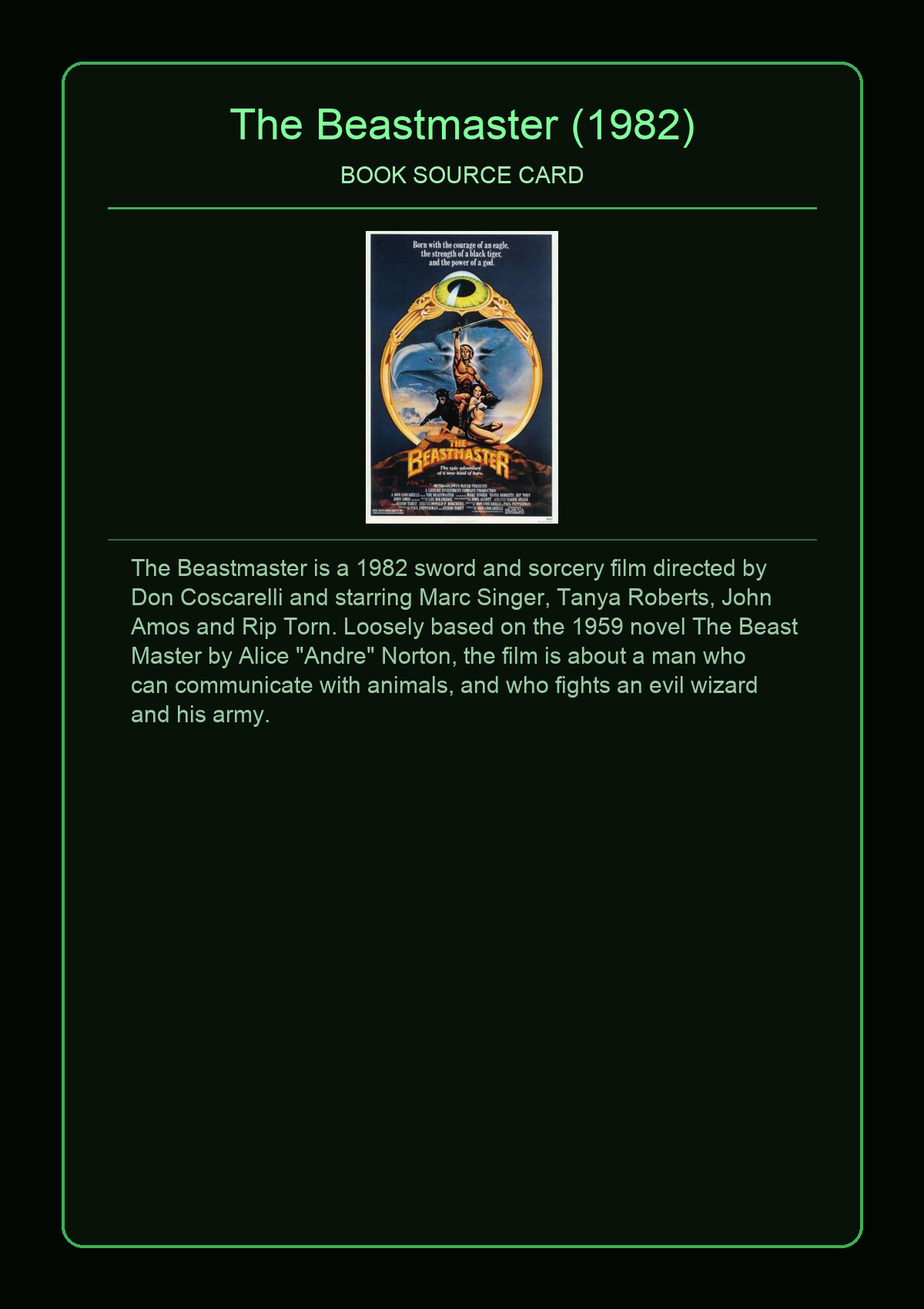
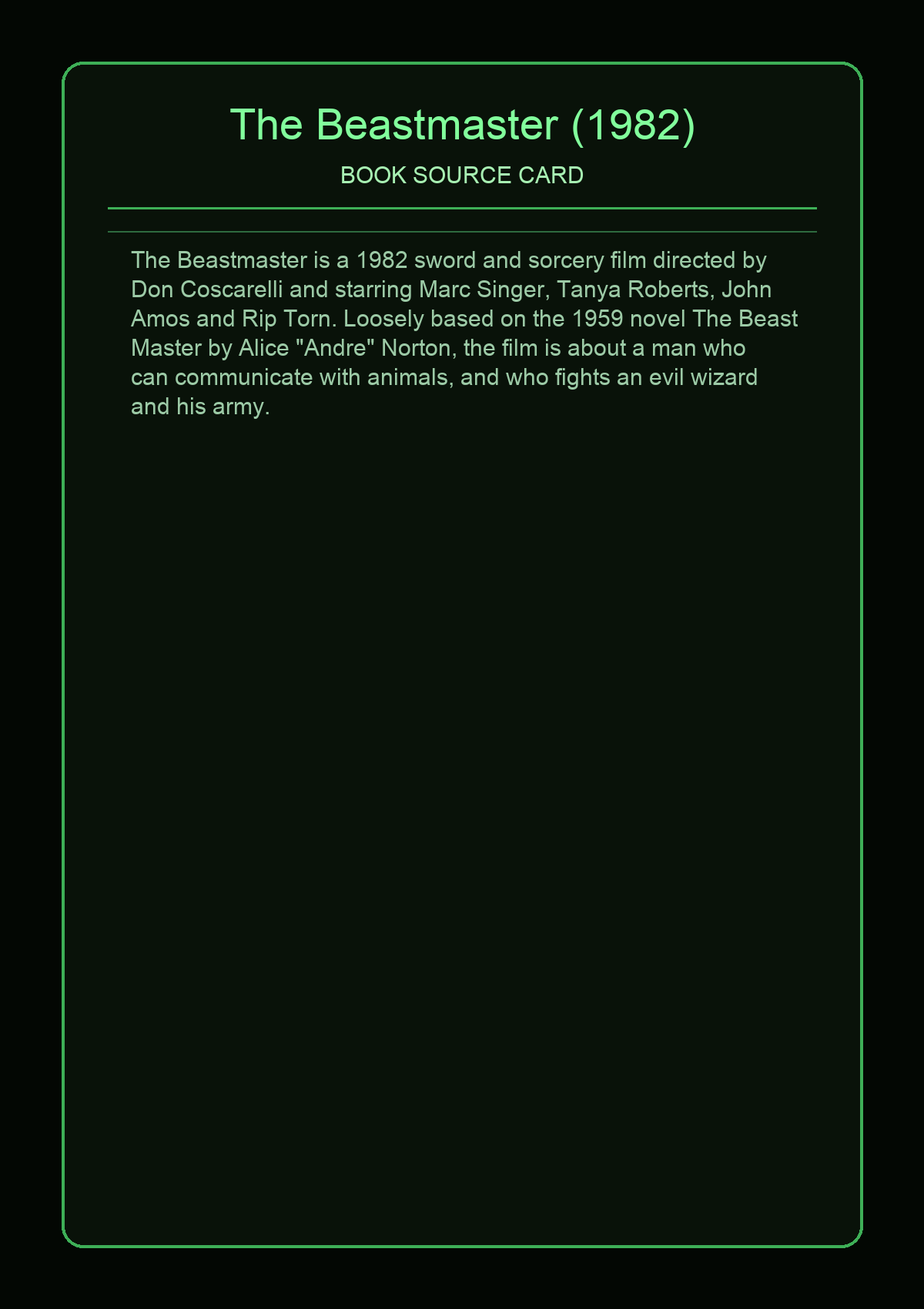
Regenerate DnDex cards with updated entity pages

Changed region(s): [[0.1233, 0.1559, 0.8633, 0.5612]]

diff --git a/ios_card_images/card-dex/entities/wacky-races-1968.html b/ios_card_images/card-dex/entities/wacky-races-1968.html
@@ -20,7 +20,7 @@
       </section>
       <section class="panel">
         <h2>Photo</h2>
-        <img class="wiki-img" src="../../entities/photos/wacky-races-1968.jpg" alt="Wacky Races (1968) image" />
+        <p class="small">No local photo available for this source yet.</p>
         <p class="summary">Wacky Races is an American animated comedy television series produced by Hanna-Barbera Productions in association with Heatter-Quigley Productions. It aired on CBS as part of its Saturday-morning schedule from September 14, 1968, to January 4, 1969, and then reruns the next season. The series features 11 different cars racing against each other in various road rallies throughout North America, with all of the drivers hoping to win the title of the "World's Wackiest Racer". The show was inspired by the 1965 comedy film The Great Race. This was the only non-game show produced by Heatter-Quigley; the show was intended as a game show in which children would guess the winner of each race, and those who answered correctly would win prizes, but CBS dropped these elements during development.</p>
       </section>
     </div>

diff --git a/ios_card_images/card-dex/entities/thundercats-1985.html b/ios_card_images/card-dex/entities/thundercats-1985.html
@@ -20,7 +20,7 @@
       </section>
       <section class="panel">
         <h2>Photo</h2>
-        <img class="wiki-img" src="../../entities/photos/thundercats-1985.png" alt="ThunderCats (1985) image" />
+        <p class="small">No local photo available for this source yet.</p>
         <p class="summary">ThunderCats is an American animated science fantasy television series produced by Rankin/Bass Animated Entertainment and Leisure Concepts. It debuted in 1985, based on the characters created by Tobin Wolf. The series, for which Leonard Starr was the head writer, follows the adventures of a group of catlike humanoid aliens. The animation for the episodes was provided by the Japanese studio Pacific Animation Corporation, with Masaki Iizuka as production manager. The studio was acquired in 1989 to form Walt Disney Animation Japan. Season 1 of the show aired in 1985, consisting of 65 episodes. Seasons 2, 3, and 4 each contained twenty episodes, starting with a five-part story.</p>
       </section>
     </div>

diff --git a/ios_card_images/card-dex/entities/ursula-k-le-guin.html b/ios_card_images/card-dex/entities/ursula-k-le-guin.html
@@ -20,7 +20,7 @@
       </section>
       <section class="panel">
         <h2>Photo</h2>
-        <img class="wiki-img" src="../../entities/photos/ursula-k-le-guin.jpg" alt="Ursula K. Le Guin image" />
+        <p class="small">No local photo available for this source yet.</p>
         <p class="summary">Ursula Kroeber Le Guin was an American author. She is best known for her works of speculative fiction, including science fiction works set in her Hainish universe, and the Earthsea fantasy series. Her work was first published in 1959, and her literary career spanned nearly sixty years, producing more than twenty novels and more than a hundred short stories, in addition to poetry, literary criticism, translations, and children's books. Frequently described as an author of science fiction, Le Guin has also been called a "major voice in American Letters". Le Guin said that she would prefer to be known as an "American novelist".</p>
       </section>
     </div>

diff --git a/ios_card_images/card-dex/entities/willow-1988.html b/ios_card_images/card-dex/entities/willow-1988.html
@@ -20,7 +20,7 @@
       </section>
       <section class="panel">
         <h2>Photo</h2>
-        <img class="wiki-img" src="../../entities/photos/willow-1988.jpg" alt="Willow (1988) image" />
+        <p class="small">No local photo available for this source yet.</p>
         <p class="summary">Willow is a 1988 American high fantasy adventure film directed by Ron Howard and produced by Nigel Wooll. The film was executive produced by George Lucas and written by Bob Dolman from a story by Lucas. The film stars Warwick Davis as the title character, Val Kilmer, Joanne Whalley, Billy Barty and Jean Marsh. Davis portrays aspiring magician Willow Ufgood who teams up with disaffected warrior Madmartigan (Kilmer) to protect young baby princess Elora Danan from evil queen Bavmorda (Marsh).</p>
       </section>
     </div>

diff --git a/ios_card_images/card-dex/entities/the-phantom-1936.html b/ios_card_images/card-dex/entities/the-phantom-1936.html
@@ -20,7 +20,7 @@
       </section>
       <section class="panel">
         <h2>Photo</h2>
-        <img class="wiki-img" src="../../entities/photos/the-phantom-1936.jpg" alt="The Phantom (1936) image" />
+        <p class="small">No local photo available for this source yet.</p>
         <p class="summary">The Phantom is a 1996 superhero film directed by Simon Wincer. Based on Lee Falk's comic strip The Phantom by King Features, the film stars Billy Zane as a seemingly immortal crimefighter and his battle against all forms of evil. The Phantom also stars Treat Williams, Kristy Swanson, Catherine Zeta-Jones, James Remar and Patrick McGoohan.</p>
       </section>
     </div>

diff --git a/ios_card_images/card-dex/entities/the-beastmaster-1982.html b/ios_card_images/card-dex/entities/the-beastmaster-1982.html
@@ -20,7 +20,7 @@
       </section>
       <section class="panel">
         <h2>Photo</h2>
-        <img class="wiki-img" src="../../entities/photos/the-beastmaster-1982.jpg" alt="The Beastmaster (1982) image" />
+        <p class="small">No local photo available for this source yet.</p>
         <p class="summary">The Beastmaster is a 1982 sword and sorcery film directed by Don Coscarelli and starring Marc Singer, Tanya Roberts, John Amos and Rip Torn. Loosely based on the 1959 novel The Beast Master by Alice "Andre" Norton, the film is about a man who can communicate with animals, and who fights an evil wizard and his army.</p>
       </section>
     </div>

diff --git a/ios_card_images/card-dex/entities/ulysses-31-1981.html b/ios_card_images/card-dex/entities/ulysses-31-1981.html
@@ -20,7 +20,7 @@
       </section>
       <section class="panel">
         <h2>Photo</h2>
-        <img class="wiki-img" src="../../entities/photos/ulysses-31-1981.jpg" alt="Ulysses 31 (1981) image" />
+        <p class="small">No local photo available for this source yet.</p>
         <p class="summary">Ulysses 31  is a French–Japanese–Luxembourgian anime series based on the Greek mythology of Odysseus, set in the 31st century. It was produced by DIC Audiovisuel and Tokyo Movie Shinsha, in co-production with France 3 and RTL. The series comprises 26 half-hour episodes.</p>
       </section>
     </div>

diff --git a/ios_card_images/card-dex/entities/terry-pratchett.html b/ios_card_images/card-dex/entities/terry-pratchett.html
@@ -20,7 +20,7 @@
       </section>
       <section class="panel">
         <h2>Photo</h2>
-        <img class="wiki-img" src="../../entities/photos/terry-pratchett.jpg" alt="Terry Pratchett image" />
+        <p class="small">No local photo available for this source yet.</p>
         <p class="summary">Sir Terence David John Pratchett was an English author, humorist, and satirist, best known for the Discworld series of 41 comic fantasy novels published between 1983 and 2015, and for the apocalyptic comedy novel Good Omens (1990), which he co-wrote with Neil Gaiman.</p>
       </section>
     </div>

diff --git a/ios_card_images/card-dex/entities/the-neverending-story-1984.html b/ios_card_images/card-dex/entities/the-neverending-story-1984.html
@@ -20,7 +20,7 @@
       </section>
       <section class="panel">
         <h2>Photo</h2>
-        <img class="wiki-img" src="../../entities/photos/the-neverending-story-1984.jpg" alt="The NeverEnding Story (1984) image" />
+        <p class="small">No local photo available for this source yet.</p>
         <p class="summary">The Neverending Story is a fantasy novel by German writer Michael Ende, published in 1979. The first English translation, by Ralph Manheim, was published in 1983. It was later adapted into a film series and a television series.</p>
       </section>
     </div>

diff --git a/ios_card_images/card-dex/entities/tolkien.html b/ios_card_images/card-dex/entities/tolkien.html
@@ -20,7 +20,7 @@
       </section>
       <section class="panel">
         <h2>Photo</h2>
-        <img class="wiki-img" src="../../entities/photos/tolkien.jpg" alt="Tolkien image" />
+        <p class="small">No local photo available for this source yet.</p>
         <p class="summary">John Ronald Reuel Tolkien was an English writer and philologist. He was the author of the high fantasy works The Hobbit (1937) and The Lord of the Rings (1954–55).</p>
       </section>
     </div>

diff --git a/ios_card_images/PHOTO_SOURCES.md b/ios_card_images/PHOTO_SOURCES.md
@@ -4,51 +4,41 @@ Local copies of reference photos used in source/entity pages.
 
 | Source | Local File | Wiki Page | Remote Image URL | Retrieved (UTC) |
 |---|---|---|---|---|
-| Alien (1979) | `entities/photos/alien-1979.jpg` | https://en.wikipedia.org/wiki/Alien_(film) | https://upload.wikimedia.org/wikipedia/en/c/c3/Alien_movie_poster.jpg | 2026-03-13T22:28:56+00:00 |
-| Blake's 7 (1978) | `entities/photos/blake-s-7-1978.jpg` | https://en.wikipedia.org/wiki/Blake's_7 | https://upload.wikimedia.org/wikipedia/en/thumb/1/1e/Blake%27s_7_%28title_card%29.jpg/330px-Blake%27s_7_%28title_card%29.jpg | 2026-03-13T22:28:56+00:00 |
-| Buck Rogers (1929) | `entities/photos/buck-rogers-1929.jpg` | https://en.wikipedia.org/wiki/Buck_Rogers | https://upload.wikimedia.org/wikipedia/commons/thumb/7/77/FamousFunniesNo211.jpg/330px-FamousFunniesNo211.jpg | 2026-03-13T22:28:57+00:00 |
-| Classic Sci-Fi | `entities/photos/classic-sci-fi.jpg` | https://en.wikipedia.org/wiki/FIFA_06 | https://upload.wikimedia.org/wikipedia/en/thumb/e/e9/FIFA_06_UK_cover.jpg/250px-FIFA_06_UK_cover.jpg | 2026-03-13T22:28:57+00:00 |
-| Community | `entities/photos/community.jpg` | https://en.wikipedia.org/wiki/Community | https://upload.wikimedia.org/wikipedia/commons/thumb/3/39/A_community_townhall_at_Makoko_community.jpg/330px-A_community_townhall_at_Makoko_community.jpg | 2026-03-13T22:28:57+00:00 |
-| Conan the Barbarian (1982) | `entities/photos/conan-the-barbarian-1982.jpg` | https://en.wikipedia.org/wiki/Conan_the_Barbarian_(1982_novel) | https://upload.wikimedia.org/wikipedia/en/thumb/1/1f/Conan_the_Barbarian_novel.jpg/120px-Conan_the_Barbarian_novel.jpg | 2026-03-13T22:28:58+00:00 |
-| Cosgrove Hall (1981) | `entities/photos/cosgrove-hall-1981.png` | https://en.wikipedia.org/wiki/Cosgrove_Hall_Films | https://upload.wikimedia.org/wikipedia/en/7/7b/CosgroveHallLogo.png | 2026-03-13T22:28:58+00:00 |
-| Dan Dare (1950) | `entities/photos/dan-dare-1950.jpg` | https://en.wikipedia.org/wiki/Dan_Dare | https://upload.wikimedia.org/wikipedia/en/thumb/c/ce/Eagle_cover_1989.jpg/250px-Eagle_cover_1989.jpg | 2026-03-13T22:28:59+00:00 |
-| David Eddings | `entities/photos/david-eddings.jpg` | https://en.wikipedia.org/wiki/David_Eddings | https://upload.wikimedia.org/wikipedia/en/thumb/e/ee/David_Eddings_portrait.jpg/120px-David_Eddings_portrait.jpg | 2026-03-13T22:29:00+00:00 |
-| Doctor Who (1963) | `entities/photos/doctor-who-1963.jpg` | https://en.wikipedia.org/wiki/Doctor_Who_(film) | https://upload.wikimedia.org/wikipedia/en/thumb/6/60/Doctor_Who_1996_poster.jpg/120px-Doctor_Who_1996_poster.jpg | 2026-03-13T22:29:00+00:00 |
-| Dogtanian (1981) | `entities/photos/dogtanian-1981.jpg` | https://en.wikipedia.org/wiki/Dogtanian_and_the_Three_Muskehounds | https://upload.wikimedia.org/wikipedia/en/thumb/5/59/DogtanianLogo.JPG/330px-DogtanianLogo.JPG | 2026-03-13T22:29:00+00:00 |
-| Dragonslayer (1981) | `entities/photos/dragonslayer-1981.jpg` | https://en.wikipedia.org/wiki/Dragonslayer_(1981_film) | https://upload.wikimedia.org/wikipedia/en/4/41/DragonslayerPoster.jpg | 2026-03-13T22:29:01+00:00 |
-| Edgar Rice Burroughs | `entities/photos/edgar-rice-burroughs.jpg` | https://en.wikipedia.org/wiki/Edgar_Rice_Burroughs | https://upload.wikimedia.org/wikipedia/commons/thumb/f/ff/BurroughsEdgarRice.jpg/330px-BurroughsEdgarRice.jpg | 2026-03-13T22:29:01+00:00 |
-| Flash Gordon (1934) | `entities/photos/flash-gordon-1934.jpg` | https://en.wikipedia.org/wiki/Flash_Gordon_(1954_TV_series) | https://upload.wikimedia.org/wikipedia/commons/thumb/4/43/Fg1954tc.jpg/330px-Fg1954tc.jpg | 2026-03-13T22:29:01+00:00 |
-| Forbidden Planet (1956) | `entities/photos/forbidden-planet-1956.jpg` | https://en.wikipedia.org/wiki/Forbidden_Planet | https://upload.wikimedia.org/wikipedia/commons/thumb/5/50/Forbiddenplanetposter.jpg/330px-Forbiddenplanetposter.jpg | 2026-03-13T22:29:02+00:00 |
-| Fritz Leiber | `entities/photos/fritz-leiber.jpg` | https://en.wikipedia.org/wiki/Fritz_Leiber | https://upload.wikimedia.org/wikipedia/commons/thumb/5/57/Fritz_Leiber_at_A_Change_of_Hobbit%2C_26_February_1977_%28cropped%29.jpg/330px-Fritz_Leiber_at_A_Change_of_Hobbit%2C_26_February_1977_%28cropped%29.jpg | 2026-03-13T22:29:02+00:00 |
-| Futurama | `entities/photos/futurama.png` | https://en.wikipedia.org/wiki/Futurama | https://upload.wikimedia.org/wikipedia/commons/thumb/8/84/Futurama_1999_logo.svg/330px-Futurama_1999_logo.svg.png | 2026-03-13T22:29:02+00:00 |
-| Hanna-Barbera (1961) | `entities/photos/hanna-barbera-1961.jpg` | https://en.wikipedia.org/wiki/Hanna-Barbera | https://upload.wikimedia.org/wikipedia/en/thumb/4/49/Hbstudio1990s.jpg/330px-Hbstudio1990s.jpg | 2026-03-13T22:29:02+00:00 |
-| He-Man (1983) | `entities/photos/he-man-1983.jpg` | https://en.wikipedia.org/wiki/He-Man_and_the_Masters_of_the_Universe | https://upload.wikimedia.org/wikipedia/en/thumb/a/a2/He-Man_and_the_Masters_of_the_Universe_%28logo%29.jpg/330px-He-Man_and_the_Masters_of_the_Universe_%28logo%29.jpg | 2026-03-13T22:29:03+00:00 |
-| Isaac Asimov | `entities/photos/isaac-asimov.jpg` | https://en.wikipedia.org/wiki/Isaac_Asimov | https://upload.wikimedia.org/wikipedia/commons/thumb/3/34/Isaac.Asimov01.jpg/330px-Isaac.Asimov01.jpg | 2026-03-13T22:29:04+00:00 |
-| J.R.R. Tolkien | `entities/photos/j-r-r-tolkien.jpg` | https://en.wikipedia.org/wiki/J._R._R._Tolkien | https://upload.wikimedia.org/wikipedia/commons/thumb/d/d4/J._R._R._Tolkien%2C_ca._1925.jpg/330px-J._R._R._Tolkien%2C_ca._1925.jpg | 2026-03-13T22:29:04+00:00 |
-| Judge Dredd (1977) | `entities/photos/judge-dredd-1977.jpg` | https://en.wikipedia.org/wiki/Judge_Dredd_(1997_video_game) | https://upload.wikimedia.org/wikipedia/en/thumb/3/36/Judge_Dredd_%281997_VG%29_cover.jpg/250px-Judge_Dredd_%281997_VG%29_cover.jpg | 2026-03-13T22:29:04+00:00 |
-| King Kong (1933) | `entities/photos/king-kong-1933.jpg` | https://en.wikipedia.org/wiki/King_Kong_(1933_film) | https://upload.wikimedia.org/wikipedia/commons/thumb/f/f3/Kingkongposter.jpg/330px-Kingkongposter.jpg | 2026-03-13T22:29:05+00:00 |
-| Labyrinth (1986) | `entities/photos/labyrinth-1986.jpg` | https://en.wikipedia.org/wiki/Labyrinth_(1986_film) | https://upload.wikimedia.org/wikipedia/en/6/6b/Labyrinth_ver2.jpg | 2026-03-13T22:29:05+00:00 |
-| Legend (1985) | `entities/photos/legend-1985.png` | https://en.wikipedia.org/wiki/Legend_(1985_film) | https://upload.wikimedia.org/wikipedia/en/8/8c/Legend_%281985_film%29.png | 2026-03-13T22:29:06+00:00 |
-| Mervyn Peake | `entities/photos/mervyn-peake.jpg` | https://en.wikipedia.org/wiki/Mervyn_Peake | https://upload.wikimedia.org/wikipedia/en/thumb/1/13/Mervyn_Peake.jpg/250px-Mervyn_Peake.jpg | 2026-03-13T22:29:06+00:00 |
-| Michael Moorcock | `entities/photos/michael-moorcock.jpg` | https://en.wikipedia.org/wiki/Michael_Moorcock | https://upload.wikimedia.org/wikipedia/commons/thumb/8/8b/Michael_Moorcock_2012_%28cropped%29.jpg/330px-Michael_Moorcock_2012_%28cropped%29.jpg | 2026-03-13T22:29:07+00:00 |
-| Mysterious Cities of Gold (1982) | `entities/photos/mysterious-cities-of-gold-1982.jpg` | https://en.wikipedia.org/wiki/The_Mysterious_Cities_of_Gold | https://upload.wikimedia.org/wikipedia/en/thumb/8/8e/The_Mysterious_Cities_of_Gold_%281982%29_promotional_cover.jpg/250px-The_Mysterious_Cities_of_Gold_%281982%29_promotional_cover.jpg | 2026-03-13T22:29:07+00:00 |
-| Noggin the Nog (1959) | `entities/photos/noggin-the-nog-1959.jpg` | https://en.wikipedia.org/wiki/Noggin_the_Nog | https://upload.wikimedia.org/wikipedia/en/thumb/a/a3/NogginBookSmall.jpg/250px-NogginBookSmall.jpg | 2026-03-13T22:29:07+00:00 |
-| Pinky and the Brain (1995) | `entities/photos/pinky-and-the-brain-1995.png` | https://en.wikipedia.org/wiki/Pinky_and_the_Brain | https://upload.wikimedia.org/wikipedia/en/thumb/a/a6/Pinky_and_The_Brain_%28logo%29.png/330px-Pinky_and_The_Brain_%28logo%29.png | 2026-03-13T22:29:08+00:00 |
-| Prince Valiant (1937) | `entities/photos/prince-valiant-1937.jpg` | https://en.wikipedia.org/wiki/Prince_Valiant_(1997_film) | https://upload.wikimedia.org/wikipedia/en/7/74/Prince_Valiant_1997.jpg | 2026-03-13T22:29:08+00:00 |
-| R.A. Salvatore | `entities/photos/r-a-salvatore.jpg` | https://en.wikipedia.org/wiki/R._A._Salvatore | https://upload.wikimedia.org/wikipedia/commons/thumb/a/a9/RA_Salvatore%2C_convention.jpg/330px-RA_Salvatore%2C_convention.jpg | 2026-03-13T22:29:08+00:00 |
-| Red Sonja (1985) | `entities/photos/red-sonja-1985.jpg` | https://en.wikipedia.org/wiki/Red_Sonja_(1985_film) | https://upload.wikimedia.org/wikipedia/en/0/06/Red_sonja_film_poster.jpg | 2026-03-13T22:29:08+00:00 |
-| Robert E. Howard | `entities/photos/robert-e-howard.jpg` | https://en.wikipedia.org/wiki/Robert_E._Howard | https://upload.wikimedia.org/wikipedia/commons/thumb/5/50/Robert_E_Howard_suit.jpg/330px-Robert_E_Howard_suit.jpg | 2026-03-13T22:29:09+00:00 |
-| Robin of Sherwood (1984) | `entities/photos/robin-of-sherwood-1984.jpg` | https://en.wikipedia.org/wiki/Robin_of_Sherwood | https://upload.wikimedia.org/wikipedia/en/thumb/f/f0/Robinofsherwood.jpg/120px-Robinofsherwood.jpg | 2026-03-13T22:29:09+00:00 |
-| Roger Zelazny | `entities/photos/roger-zelazny.jpg` | https://en.wikipedia.org/wiki/Roger_Zelazny | https://upload.wikimedia.org/wikipedia/en/f/fe/Rogerzelazny.JPG | 2026-03-13T22:29:09+00:00 |
-| Star Wars (1977) | `entities/photos/star-wars-1977.jpg` | https://en.wikipedia.org/wiki/Star_Wars_(film) | https://upload.wikimedia.org/wikipedia/en/thumb/8/87/StarWarsMoviePoster1977.jpg/250px-StarWarsMoviePoster1977.jpg | 2026-03-13T22:29:10+00:00 |
-| Stranger Things | `entities/photos/stranger-things.png` | https://en.wikipedia.org/wiki/Stranger_Things | https://upload.wikimedia.org/wikipedia/commons/thumb/3/38/Stranger_Things_logo.png/330px-Stranger_Things_logo.png | 2026-03-13T22:29:10+00:00 |
-| Terry Pratchett | `entities/photos/terry-pratchett.jpg` | https://en.wikipedia.org/wiki/Terry_Pratchett | https://upload.wikimedia.org/wikipedia/commons/thumb/3/37/Terry_Pratchett_%283x4_cropped%29.jpg/330px-Terry_Pratchett_%283x4_cropped%29.jpg | 2026-03-13T22:29:10+00:00 |
-| The Beastmaster (1982) | `entities/photos/the-beastmaster-1982.jpg` | https://en.wikipedia.org/wiki/The_Beastmaster | https://upload.wikimedia.org/wikipedia/en/thumb/a/a7/TheBeastmaster.jpg/250px-TheBeastmaster.jpg | 2026-03-13T22:29:11+00:00 |
-| The NeverEnding Story (1984) | `entities/photos/the-neverending-story-1984.jpg` | https://en.wikipedia.org/wiki/The_Neverending_Story | https://upload.wikimedia.org/wikipedia/en/thumb/b/b7/Die_unendliche_Geschichte.jpg/250px-Die_unendliche_Geschichte.jpg | 2026-03-13T22:29:11+00:00 |
-| The Phantom (1936) | `entities/photos/the-phantom-1936.jpg` | https://en.wikipedia.org/wiki/The_Phantom_(1996_film) | https://upload.wikimedia.org/wikipedia/en/7/75/Phantompost.jpg | 2026-03-13T22:29:12+00:00 |
-| ThunderCats (1985) | `entities/photos/thundercats-1985.png` | https://en.wikipedia.org/wiki/ThunderCats_(1985_TV_series) | https://upload.wikimedia.org/wikipedia/en/e/ea/Thundercats.png | 2026-03-13T22:29:12+00:00 |
-| Tolkien | `entities/photos/tolkien.jpg` | https://en.wikipedia.org/wiki/J._R._R._Tolkien | https://upload.wikimedia.org/wikipedia/commons/thumb/d/d4/J._R._R._Tolkien%2C_ca._1925.jpg/330px-J._R._R._Tolkien%2C_ca._1925.jpg | 2026-03-13T22:29:12+00:00 |
-| Ulysses 31 (1981) | `entities/photos/ulysses-31-1981.jpg` | https://en.wikipedia.org/wiki/Ulysses_31 | https://upload.wikimedia.org/wikipedia/en/thumb/0/05/Ulysses_31_logo.jpg/250px-Ulysses_31_logo.jpg | 2026-03-13T22:29:12+00:00 |
-| Ursula K. Le Guin | `entities/photos/ursula-k-le-guin.jpg` | https://en.wikipedia.org/wiki/Ursula_K._Le_Guin | https://upload.wikimedia.org/wikipedia/commons/thumb/2/2e/Ursula_Le_Guin_%283551195631%29_-_Restoration.jpg/330px-Ursula_Le_Guin_%283551195631%29_-_Restoration.jpg | 2026-03-13T22:29:12+00:00 |
-| Wacky Races (1968) | `entities/photos/wacky-races-1968.jpg` | https://en.wikipedia.org/wiki/Wacky_Races_(1968_TV_series) | https://upload.wikimedia.org/wikipedia/en/thumb/9/9f/Wacky_Races_Logo.jpg/250px-Wacky_Races_Logo.jpg | 2026-03-13T22:29:13+00:00 |
-| Willow (1988) | `entities/photos/willow-1988.jpg` | https://en.wikipedia.org/wiki/Willow_(1988_film) | https://upload.wikimedia.org/wikipedia/en/thumb/7/7b/Willow_movie.jpg/250px-Willow_movie.jpg | 2026-03-13T22:29:13+00:00 |
+| Alien (1979) | `entities/photos/alien-1979.jpg` | https://en.wikipedia.org/wiki/Alien_(film) | https://upload.wikimedia.org/wikipedia/en/c/c3/Alien_movie_poster.jpg | 2026-03-13T23:01:23+00:00 |
+| Blake's 7 (1978) | `entities/photos/blake-s-7-1978.jpg` | https://en.wikipedia.org/wiki/Blake's_7 | https://upload.wikimedia.org/wikipedia/en/thumb/1/1e/Blake%27s_7_%28title_card%29.jpg/330px-Blake%27s_7_%28title_card%29.jpg | 2026-03-13T23:01:23+00:00 |
+| Buck Rogers (1929) | `entities/photos/buck-rogers-1929.jpg` | https://en.wikipedia.org/wiki/Buck_Rogers | https://upload.wikimedia.org/wikipedia/commons/thumb/7/77/FamousFunniesNo211.jpg/330px-FamousFunniesNo211.jpg | 2026-03-13T23:01:23+00:00 |
+| Classic Sci-Fi | `entities/photos/classic-sci-fi.jpg` | https://en.wikipedia.org/wiki/FIFA_06 | https://upload.wikimedia.org/wikipedia/en/thumb/e/e9/FIFA_06_UK_cover.jpg/250px-FIFA_06_UK_cover.jpg | 2026-03-13T23:01:23+00:00 |
+| Community | `entities/photos/community.jpg` | https://en.wikipedia.org/wiki/Community | https://upload.wikimedia.org/wikipedia/commons/thumb/3/39/A_community_townhall_at_Makoko_community.jpg/330px-A_community_townhall_at_Makoko_community.jpg | 2026-03-13T23:01:24+00:00 |
+| Conan the Barbarian (1982) | `entities/photos/conan-the-barbarian-1982.jpg` | https://en.wikipedia.org/wiki/Conan_the_Barbarian_(1982_novel) | https://upload.wikimedia.org/wikipedia/en/thumb/1/1f/Conan_the_Barbarian_novel.jpg/120px-Conan_the_Barbarian_novel.jpg | 2026-03-13T23:01:24+00:00 |
+| Cosgrove Hall (1981) | `entities/photos/cosgrove-hall-1981.png` | https://en.wikipedia.org/wiki/Cosgrove_Hall_Films | https://upload.wikimedia.org/wikipedia/en/7/7b/CosgroveHallLogo.png | 2026-03-13T23:01:24+00:00 |
+| Dan Dare (1950) | `entities/photos/dan-dare-1950.jpg` | https://en.wikipedia.org/wiki/Dan_Dare | https://upload.wikimedia.org/wikipedia/en/thumb/c/ce/Eagle_cover_1989.jpg/250px-Eagle_cover_1989.jpg | 2026-03-13T23:01:25+00:00 |
+| David Eddings | `entities/photos/david-eddings.jpg` | https://en.wikipedia.org/wiki/David_Eddings | https://upload.wikimedia.org/wikipedia/en/thumb/e/ee/David_Eddings_portrait.jpg/120px-David_Eddings_portrait.jpg | 2026-03-13T23:01:26+00:00 |
+| Doctor Who (1963) | `entities/photos/doctor-who-1963.jpg` | https://en.wikipedia.org/wiki/Doctor_Who_(film) | https://upload.wikimedia.org/wikipedia/en/thumb/6/60/Doctor_Who_1996_poster.jpg/120px-Doctor_Who_1996_poster.jpg | 2026-03-13T23:01:26+00:00 |
+| Dogtanian (1981) | `entities/photos/dogtanian-1981.jpg` | https://en.wikipedia.org/wiki/Dogtanian_and_the_Three_Muskehounds | https://upload.wikimedia.org/wikipedia/en/thumb/5/59/DogtanianLogo.JPG/330px-DogtanianLogo.JPG | 2026-03-13T23:01:26+00:00 |
+| Dragonslayer (1981) | `entities/photos/dragonslayer-1981.jpg` | https://en.wikipedia.org/wiki/Dragonslayer_(1981_film) | https://upload.wikimedia.org/wikipedia/en/4/41/DragonslayerPoster.jpg | 2026-03-13T23:01:26+00:00 |
+| Edgar Rice Burroughs | `entities/photos/edgar-rice-burroughs.jpg` | https://en.wikipedia.org/wiki/Edgar_Rice_Burroughs | https://upload.wikimedia.org/wikipedia/commons/thumb/f/ff/BurroughsEdgarRice.jpg/330px-BurroughsEdgarRice.jpg | 2026-03-13T23:01:27+00:00 |
+| Flash Gordon (1934) | `entities/photos/flash-gordon-1934.jpg` | https://en.wikipedia.org/wiki/Flash_Gordon_(1954_TV_series) | https://upload.wikimedia.org/wikipedia/commons/thumb/4/43/Fg1954tc.jpg/330px-Fg1954tc.jpg | 2026-03-13T23:01:27+00:00 |
+| Forbidden Planet (1956) | `entities/photos/forbidden-planet-1956.jpg` | https://en.wikipedia.org/wiki/Forbidden_Planet | https://upload.wikimedia.org/wikipedia/commons/thumb/5/50/Forbiddenplanetposter.jpg/330px-Forbiddenplanetposter.jpg | 2026-03-13T23:01:27+00:00 |
+| Fritz Leiber | `entities/photos/fritz-leiber.jpg` | https://en.wikipedia.org/wiki/Fritz_Leiber | https://upload.wikimedia.org/wikipedia/commons/thumb/5/57/Fritz_Leiber_at_A_Change_of_Hobbit%2C_26_February_1977_%28cropped%29.jpg/330px-Fritz_Leiber_at_A_Change_of_Hobbit%2C_26_February_1977_%28cropped%29.jpg | 2026-03-13T23:01:28+00:00 |
+| Futurama | `entities/photos/futurama.png` | https://en.wikipedia.org/wiki/Futurama | https://upload.wikimedia.org/wikipedia/commons/thumb/8/84/Futurama_1999_logo.svg/330px-Futurama_1999_logo.svg.png | 2026-03-13T23:01:28+00:00 |
+| Hanna-Barbera (1961) | `entities/photos/hanna-barbera-1961.jpg` | https://en.wikipedia.org/wiki/Hanna-Barbera | https://upload.wikimedia.org/wikipedia/en/thumb/4/49/Hbstudio1990s.jpg/330px-Hbstudio1990s.jpg | 2026-03-13T23:01:28+00:00 |
+| He-Man (1983) | `entities/photos/he-man-1983.jpg` | https://en.wikipedia.org/wiki/He-Man_and_the_Masters_of_the_Universe | https://upload.wikimedia.org/wikipedia/en/thumb/a/a2/He-Man_and_the_Masters_of_the_Universe_%28logo%29.jpg/330px-He-Man_and_the_Masters_of_the_Universe_%28logo%29.jpg | 2026-03-13T23:01:28+00:00 |
+| Isaac Asimov | `entities/photos/isaac-asimov.jpg` | https://en.wikipedia.org/wiki/Isaac_Asimov | https://upload.wikimedia.org/wikipedia/commons/thumb/3/34/Isaac.Asimov01.jpg/330px-Isaac.Asimov01.jpg | 2026-03-13T23:01:29+00:00 |
+| J.R.R. Tolkien | `entities/photos/j-r-r-tolkien.jpg` | https://en.wikipedia.org/wiki/J._R._R._Tolkien | https://upload.wikimedia.org/wikipedia/commons/thumb/d/d4/J._R._R._Tolkien%2C_ca._1925.jpg/330px-J._R._R._Tolkien%2C_ca._1925.jpg | 2026-03-13T23:01:29+00:00 |
+| Judge Dredd (1977) | `entities/photos/judge-dredd-1977.jpg` | https://en.wikipedia.org/wiki/Judge_Dredd_(1997_video_game) | https://upload.wikimedia.org/wikipedia/en/thumb/3/36/Judge_Dredd_%281997_VG%29_cover.jpg/250px-Judge_Dredd_%281997_VG%29_cover.jpg | 2026-03-13T23:01:29+00:00 |
+| King Kong (1933) | `entities/photos/king-kong-1933.jpg` | https://en.wikipedia.org/wiki/King_Kong_(1933_film) | https://upload.wikimedia.org/wikipedia/commons/thumb/f/f3/Kingkongposter.jpg/330px-Kingkongposter.jpg | 2026-03-13T23:01:29+00:00 |
+| Labyrinth (1986) | `entities/photos/labyrinth-1986.jpg` | https://en.wikipedia.org/wiki/Labyrinth_(1986_film) | https://upload.wikimedia.org/wikipedia/en/6/6b/Labyrinth_ver2.jpg | 2026-03-13T23:01:30+00:00 |
+| Legend (1985) | `entities/photos/legend-1985.png` | https://en.wikipedia.org/wiki/Legend_(1985_film) | https://upload.wikimedia.org/wikipedia/en/8/8c/Legend_%281985_film%29.png | 2026-03-13T23:01:30+00:00 |
+| Mervyn Peake | `entities/photos/mervyn-peake.jpg` | https://en.wikipedia.org/wiki/Mervyn_Peake | https://upload.wikimedia.org/wikipedia/en/thumb/1/13/Mervyn_Peake.jpg/250px-Mervyn_Peake.jpg | 2026-03-13T23:01:30+00:00 |
+| Michael Moorcock | `entities/photos/michael-moorcock.jpg` | https://en.wikipedia.org/wiki/Michael_Moorcock | https://upload.wikimedia.org/wikipedia/commons/thumb/8/8b/Michael_Moorcock_2012_%28cropped%29.jpg/330px-Michael_Moorcock_2012_%28cropped%29.jpg | 2026-03-13T23:01:31+00:00 |
+| Mysterious Cities of Gold (1982) | `entities/photos/mysterious-cities-of-gold-1982.jpg` | https://en.wikipedia.org/wiki/The_Mysterious_Cities_of_Gold | https://upload.wikimedia.org/wikipedia/en/thumb/8/8e/The_Mysterious_Cities_of_Gold_%281982%29_promotional_cover.jpg/250px-The_Mysterious_Cities_of_Gold_%281982%29_promotional_cover.jpg | 2026-03-13T23:01:31+00:00 |
+| Noggin the Nog (1959) | `entities/photos/noggin-the-nog-1959.jpg` | https://en.wikipedia.org/wiki/Noggin_the_Nog | https://upload.wikimedia.org/wikipedia/en/thumb/a/a3/NogginBookSmall.jpg/250px-NogginBookSmall.jpg | 2026-03-13T23:01:31+00:00 |
+| Pinky and the Brain (1995) | `entities/photos/pinky-and-the-brain-1995.png` | https://en.wikipedia.org/wiki/Pinky_and_the_Brain | https://upload.wikimedia.org/wikipedia/en/thumb/a/a6/Pinky_and_The_Brain_%28logo%29.png/330px-Pinky_and_The_Brain_%28logo%29.png | 2026-03-13T23:01:31+00:00 |
+| Prince Valiant (1937) | `entities/photos/prince-valiant-1937.jpg` | https://en.wikipedia.org/wiki/Prince_Valiant_(1997_film) | https://upload.wikimedia.org/wikipedia/en/7/74/Prince_Valiant_1997.jpg | 2026-03-13T23:01:32+00:00 |
+| R.A. Salvatore | `entities/photos/r-a-salvatore.jpg` | https://en.wikipedia.org/wiki/R._A._Salvatore | https://upload.wikimedia.org/wikipedia/commons/thumb/a/a9/RA_Salvatore%2C_convention.jpg/330px-RA_Salvatore%2C_convention.jpg | 2026-03-13T23:01:32+00:00 |
+| Red Sonja (1985) | `entities/photos/red-sonja-1985.jpg` | https://en.wikipedia.org/wiki/Red_Sonja_(1985_film) | https://upload.wikimedia.org/wikipedia/en/0/06/Red_sonja_film_poster.jpg | 2026-03-13T23:01:32+00:00 |
+| Robert E. Howard | `entities/photos/robert-e-howard.jpg` | https://en.wikipedia.org/wiki/Robert_E._Howard | https://upload.wikimedia.org/wikipedia/commons/thumb/5/50/Robert_E_Howard_suit.jpg/330px-Robert_E_Howard_suit.jpg | 2026-03-13T23:01:32+00:00 |
+| Robin of Sherwood (1984) | `entities/photos/robin-of-sherwood-1984.jpg` | https://en.wikipedia.org/wiki/Robin_of_Sherwood | https://upload.wikimedia.org/wikipedia/en/thumb/f/f0/Robinofsherwood.jpg/120px-Robinofsherwood.jpg | 2026-03-13T23:01:32+00:00 |
+| Roger Zelazny | `entities/photos/roger-zelazny.jpg` | https://en.wikipedia.org/wiki/Roger_Zelazny | https://upload.wikimedia.org/wikipedia/en/f/fe/Rogerzelazny.JPG | 2026-03-13T23:01:32+00:00 |
+| Star Wars (1977) | `entities/photos/star-wars-1977.jpg` | https://en.wikipedia.org/wiki/Star_Wars_(film) | https://upload.wikimedia.org/wikipedia/en/thumb/8/87/StarWarsMoviePoster1977.jpg/250px-StarWarsMoviePoster1977.jpg | 2026-03-13T23:01:33+00:00 |
+| Stranger Things | `entities/photos/stranger-things.png` | https://en.wikipedia.org/wiki/Stranger_Things | https://upload.wikimedia.org/wikipedia/commons/thumb/3/38/Stranger_Things_logo.png/330px-Stranger_Things_logo.png | 2026-03-13T23:01:33+00:00 |
